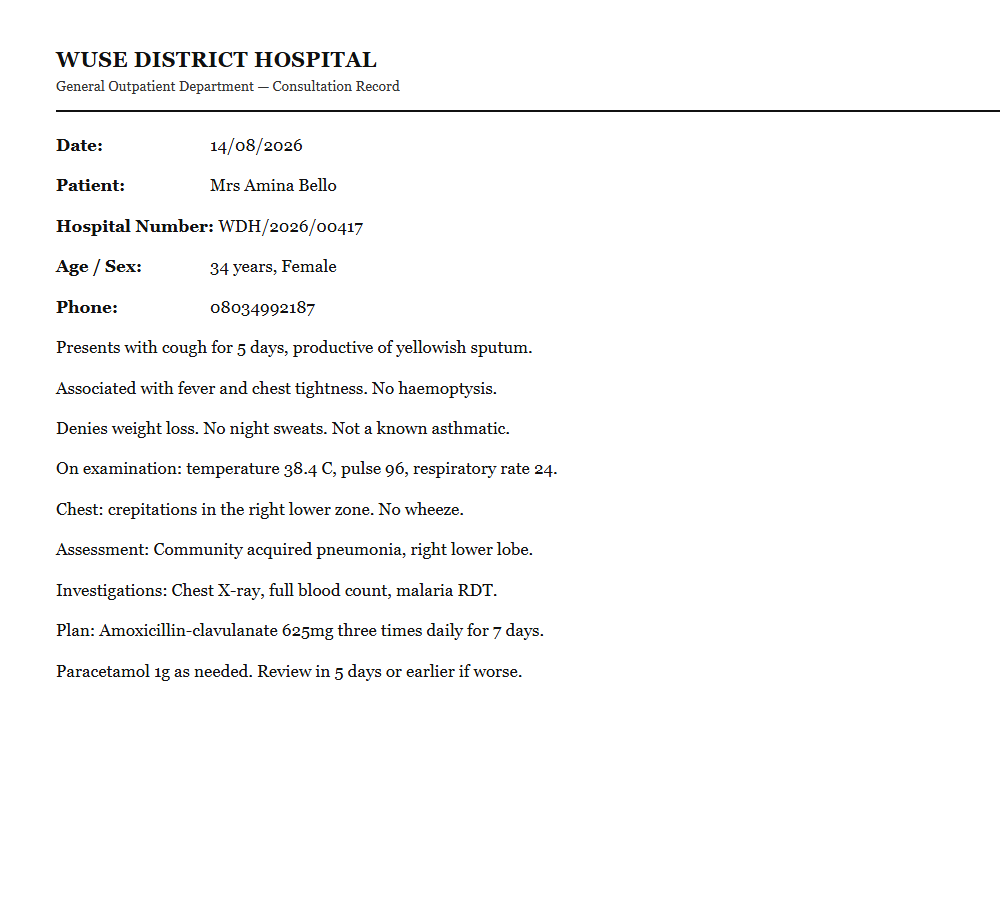
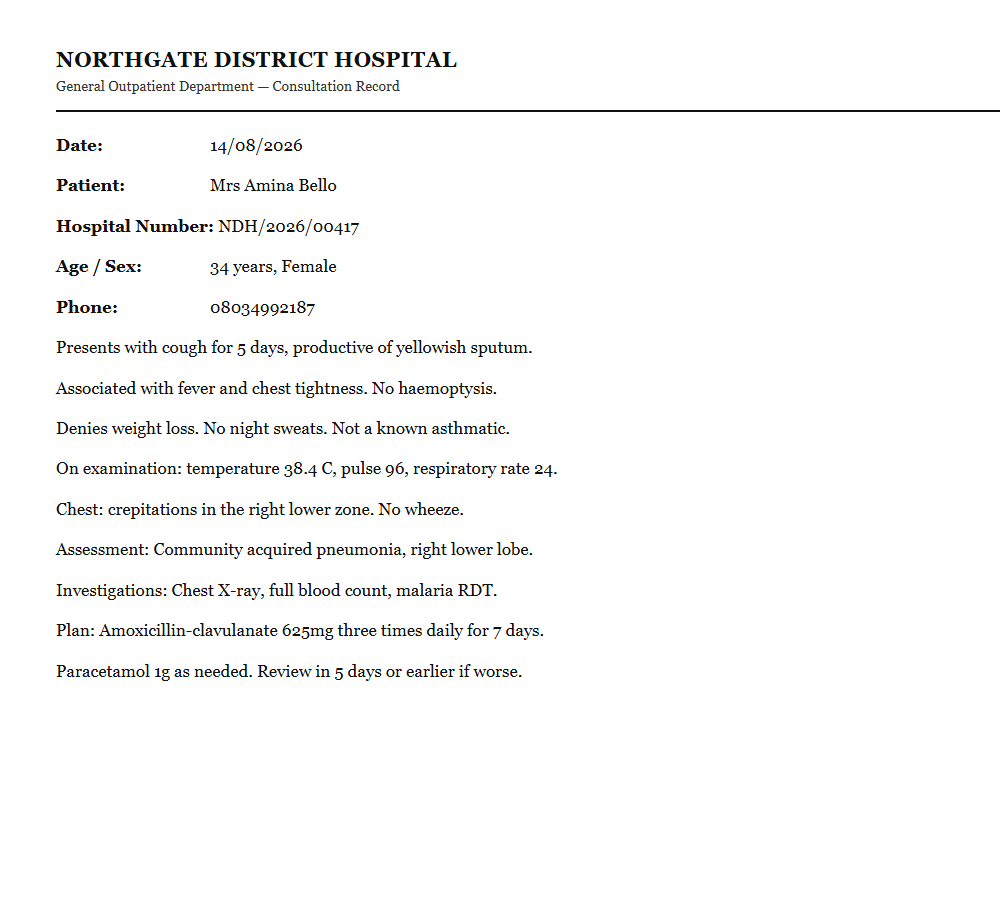
Demo data: replace real facilities, places and codes with fictional ones
The bundled samples paired invented patients with real, named Abuja
facilities, which is wrong for anything screenshotted and posted publicly.

- Facility names replaced with fictional ones (Northgate District, Brookside
  Cottage, Millfield General, Ridgeview General) in the sample CSVs and the
  sample notes.
- Real-format DATIM codes NG-FCT-00123/456/789/901 -> DEMO-FAC-01..04.
- State FCT -> Demo State; LGAs Municipal, Gwagwalada, AMAC, Bwari ->
  North/South/Central/East LGA.
- Patient ID prefixes FCT/GWA and FCT/KUB -> DEMO/BRK and DEMO/RDG.
- EID: NRL lab references -> DEMO-EID / RLAB.
- OCR sample form regenerated: "Northgate District Hospital", NDH/... number.

Token replacements, not re-serialisation, so every deliberately dirty value
the data-quality demo depends on is unchanged. Verified by running mapping,
indicators and DQ over the old and new files: identical results on both
datasets (adult: 23 fields mapped, 58 patients, 24 flags; EID: 19 fields,
40 patients, 15 flags, rule for rule). smoke.ts 91/91, build passes.

Changed region(s): [[0.062, 0.0311, 0.465, 0.0933], [0.217, 0.2178, 0.372, 0.28]]

diff --git a/src/components/NoteExtract.tsx b/src/components/NoteExtract.tsx
@@ -38,7 +38,7 @@ const SECTIONS: Record<Profile, Array<{ title: string; fields: string[] }>> = {
 const SAMPLE_NOTES: Array<{ label: string; text: string }> = [
   {
     label: 'Adult ART — routine follow-up',
-    text: `FMC Jabi — ART Clinic Follow-up
+    text: `FMC Lakeside — ART Clinic Follow-up
 Name: Mrs Adaeze Okonkwo    Hosp No: 038/10/23/OPT
 Age 34yrs, Female. Phone 08034567890
 Dx confirmed positive 04/02/2019, commenced ART 18/02/2019.
@@ -50,8 +50,8 @@ Wt 62kg. Status: Active on treatment.`,
   },
   {
     label: 'Adult ART — new initiation from ANC',
-    text: `Wuse District Hospital ART/PMTCT
-Patient ID: FCT/WUS/0311   Miss Ngozi Eze, 24yr F
+    text: `Northgate District Hospital ART/PMTCT
+Patient ID: DEMO/NGT/0311   Miss Ngozi Eze, 24yr F
 Referred from ANC. HIV confirmed 02-Apr-26 (repeat reactive).
 Commenced ART same day 02-Apr-26 on TLD, first line.
 ANC status: Pregnant, 22 weeks GA.
@@ -61,11 +61,11 @@ Tel: 0803 445 9921. Booked for viral load at 6 months.`,
   },
   {
     label: 'EID — infant DBS PCR',
-    text: `NRL DBS Sample Form — Gwagwalada Cottage Hospital
+    text: `Reference Lab DBS Sample Form — Brookside Cottage Hospital
 Baby of Mrs Chiamaka Nwosu. Hospital number 1145/EID/26
-Sample Reference Number: NRL/GOCL/23/5298
+Sample Reference Number: RLAB/BRK/23/5298
 Infant DOB 15/02/2026, sex F. Age at collection 2 months.
-DBS collected 10/04/2026, received at NRL 14/04/2026.
+DBS collected 10/04/2026, received at the reference lab 14/04/2026.
 Assay run 18-Apr-26. Result dispatched 22/04/2026.
 Sample was testable. Reason for PCR: first PCR at 6 weeks.
 DNA PCR result: Negative.
@@ -75,8 +75,8 @@ Rapid test not yet done.`,
   },
   {
     label: 'Adult ART — second line, defaulted',
-    text: `Nyanya General Hosp - ART review
-PID: FCT/NYA/0207 | Alhaji Musa Danjuma | 55 M
+    text: `Millfield General Hosp - ART review
+PID: DEMO/MLF/0207 | Alhaji Musa Danjuma | 55 M
 On ART since 19-Mar-2014. Switched to 2nd line AZT/3TC/LPV/r.
 Last seen 20/05/2026, was due 21/06/2026 but has not come.
 Defaulted - 3 missed appointments. Tracking ongoing.
